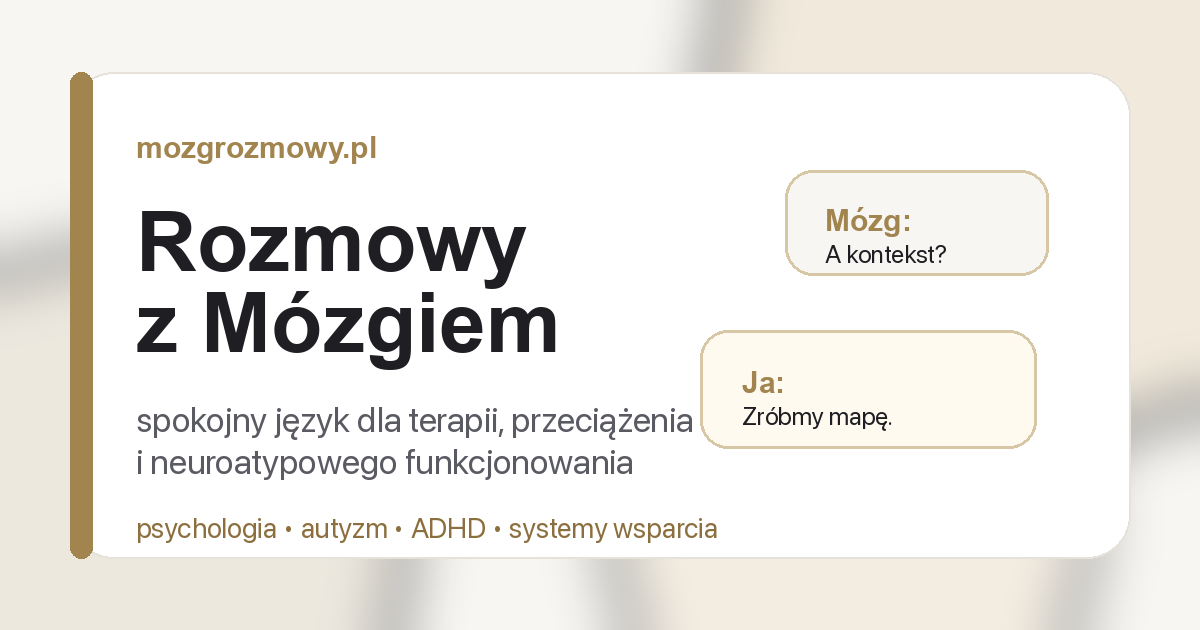
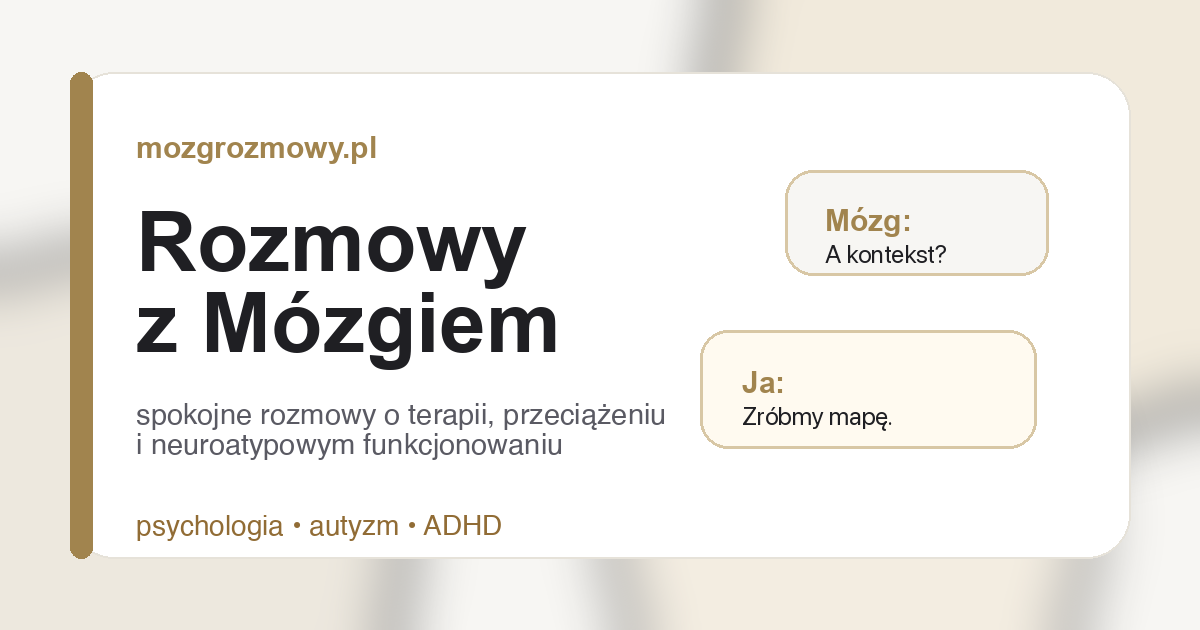
Update homepage and about copy

Changed region(s): [[0.0925, 0.6333, 0.5858, 0.754], [0.0925, 0.8143, 0.6167, 0.8746]]

diff --git a/src/i18n/ui.ts b/src/i18n/ui.ts
@@ -3,14 +3,13 @@ export type Lang = "pl" | "en";
 export const ui = {
 	pl: {
 		home: {
-			title: "Rozmowy o terapii, przeciążeniu i wsparciu | mozgrozmowy.pl",
-			description: "Spokojne, czytelne rozmowy o terapii, przeciążeniu i systemach wsparcia. Teksty o neuroatypowości, regulacji i codziennym funkcjonowaniu.",
+			title: "Refleksje o autyzmie, przeciążeniu i neuroatypowym mózgu | mozgrozmowy.pl",
+			description: "Refleksje o autyzmie, przeciążeniu i próbach zrozumienia, jak działa neuroatypowy mózg — w terapii, relacjach i codziennym życiu.",
 			pathname: "/",
 			kicker: "Najnowsze rozmowy",
-			heading:
-				"Spokojne, czytelne rozmowy o terapii, przeciążeniu i systemach wsparcia.",
+			heading: "Rozmowy z Mózgiem",
 			intro:
-				"Strona główna pokazuje najnowsze teksty z serii. Układ pozostaje prosty: czytelne tytuły, krótkie opisy i miejsce na samą treść.",
+				"Refleksje o autyzmie, przeciążeniu i próbach zrozumienia, jak działa neuroatypowy mózg — w terapii, relacjach i codziennym życiu.",
 		},
 		conversations: {
 			title: "Wszystkie rozmowy | mozgrozmowy.pl",
@@ -53,15 +52,15 @@ export const ui = {
 			kicker: "O mnie",
 			heading: "Kontekst",
 			intro:
-				"Ta strona daje kontekst: kto stoi za rozmowami i jak ten projekt podchodzi do analizy, terapii, przeciążenia i doświadczenia.",
+				"Kto stoi za rozmowami i dlaczego właśnie tak patrzę na terapię, przeciążenie i neuroatypowe funkcjonowanie.",
 			paragraphs: [
-				"Pracuję na styku doświadczenia i analizy. Ten projekt nie jest próbą tworzenia szumu wokół neuroatypowości, tylko budowania spokojnego, precyzyjnego języka dla terapii, systemów wsparcia, przeciążenia i codziennego funkcjonowania.",
+				"Pracuję na styku doświadczenia i analizy. Ten projekt nie jest próbą tworzenia szumu wokół neuroatypowości, tylko budowania spokojnego, precyzyjnego języka do rozmowy o autyzmie, terapii, przeciążeniu i codziennym funkcjonowaniu.",
 				"Treści publikowane na tej stronie i w moich mediach społecznościowych mają charakter psychoedukacyjny, refleksyjny i informacyjny. Nie są terapią, diagnozą ani indywidualną poradą psychologiczną. Mogą pomagać nazwać doświadczenie albo zobaczyć mechanizm, ale nie zastępują kontaktu ze specjalistą, zwłaszcza w sytuacji kryzysu lub potrzeby indywidualnej pomocy.",
 				"Forma jest celowo prosta. Bez archiwów, bez nadmiaru metadanych, bez zbędnego interfejsu. Jedna czytelna droga do treści.",
 				"Aktualny status projektu: publiczna wersja alpha. Strona jest gotowa do oglądania i czytania, ale będzie dalej rozwijana redakcyjnie i technicznie.",
 			],
 			professionalLinkLead:
-				"Ta strona jest projektem autorskim. Jeśli szukasz informacji o mojej pracy zawodowej i konsultacjach, znajdziesz je na stronie:",
+				"Ta strona jest projektem autorskim. Jeśli szukasz informacji o mojej pracy zawodowej lub konsultacjach, znajdziesz je na stronie:",
 			professionalLinkLabel: "autyzm.poznan.pl",
 			contactLead: "Jeśli chcesz się odezwać —",
 			contactLinkLabel: "napisz",
@@ -88,14 +87,13 @@ export const ui = {
 	},
 	en: {
 		home: {
-			title: "Conversations about therapy, overload, and support | mozgrozmowy.pl",
-			description: "Calm, readable conversations about therapy, overload, and systems of support. Writing on neurodivergence, regulation, and everyday functioning.",
+			title: "Reflections on autism, overload, and the neurodivergent brain | mozgrozmowy.pl",
+			description: "Writing about how a neurodivergent brain works — across therapy, relationships, overload, and everyday life.",
 			pathname: "/en/",
 			kicker: "Latest conversations",
-			heading:
-				"Calm, readable conversations about therapy, overload, and systems of support.",
+			heading: "Conversations with the Brain",
 			intro:
-				"This homepage shows the latest entries from the series. The structure stays simple: clear titles, short descriptions, and space for the writing itself.",
+				"Reflections on autism, overload, and trying to understand how a neurodivergent brain works — in therapy, relationships, and everyday life.",
 		},
 		conversations: {
 			title: "All conversations | mozgrozmowy.pl",
@@ -138,18 +136,18 @@ export const ui = {
 			kicker: "About",
 			heading: "Context",
 			intro:
-				"This page gives context: who is behind the conversations and how this project approaches analysis, therapy, overload, and lived experience.",
+				"Who is behind the conversations and why I look at therapy, overload, and neurodivergent functioning this way.",
 			paragraphs: [
-				"I work at the intersection of lived experience and analysis. This project is not about creating noise around neurodivergence, but about building a calm, precise language for therapy, support systems, overload, and everyday functioning.",
+				"I work at the intersection of lived experience and analysis. This project is not about creating noise around neurodivergence, but about building a calm, precise language for talking about autism, therapy, overload, and everyday functioning.",
 				"The writing published on this site and in my social media is psychoeducational, reflective, and informational. It is not therapy, diagnosis, or individual psychological advice. It may help name an experience or notice a mechanism, but it does not replace contact with a professional, especially in crisis or when individual support is needed.",
 				"The structure is intentionally simple. No archives, no metadata clutter, no unnecessary interface. Just a clear way into the ideas.",
 				"Current project status: public alpha. The site is ready to be viewed and read, but it will continue to evolve both editorially and technically.",
 			],
 			professionalLinkLead:
-				"This site is an authorial project. If you are looking for information about my professional work and consultations, you can find it at:",
+				"This site is an authorial project. If you are looking for information about my professional work or consultations, you can find it at:",
 			professionalLinkLabel: "autyzm.poznan.pl",
 			contactLead: "If you want to reach out —",
-			contactLinkLabel: "write to me", 
+			contactLinkLabel: "write to me",
 		},
 		article: {
 			kicker: "Conversation",

diff --git a/src/data/site.ts b/src/data/site.ts
@@ -2,7 +2,7 @@ export const siteConfig = {
 	siteName: "Rozmowy z Mózgiem",
 	siteUrl: "https://mozgrozmowy.pl",
 	defaultTitle: "mozgrozmowy.pl",
-	defaultDescription: "Spokojne, czytelne rozmowy o terapii, przeciążeniu i systemach wsparcia.",
+	defaultDescription: "Refleksje o autyzmie, przeciążeniu i próbach zrozumienia, jak działa neuroatypowy mózg — w terapii, relacjach i codziennym życiu.",
 	defaultOgImagePath: "/og-default.png",
 	author: {
 		name: "Małgorzata Mikołajczyk",
